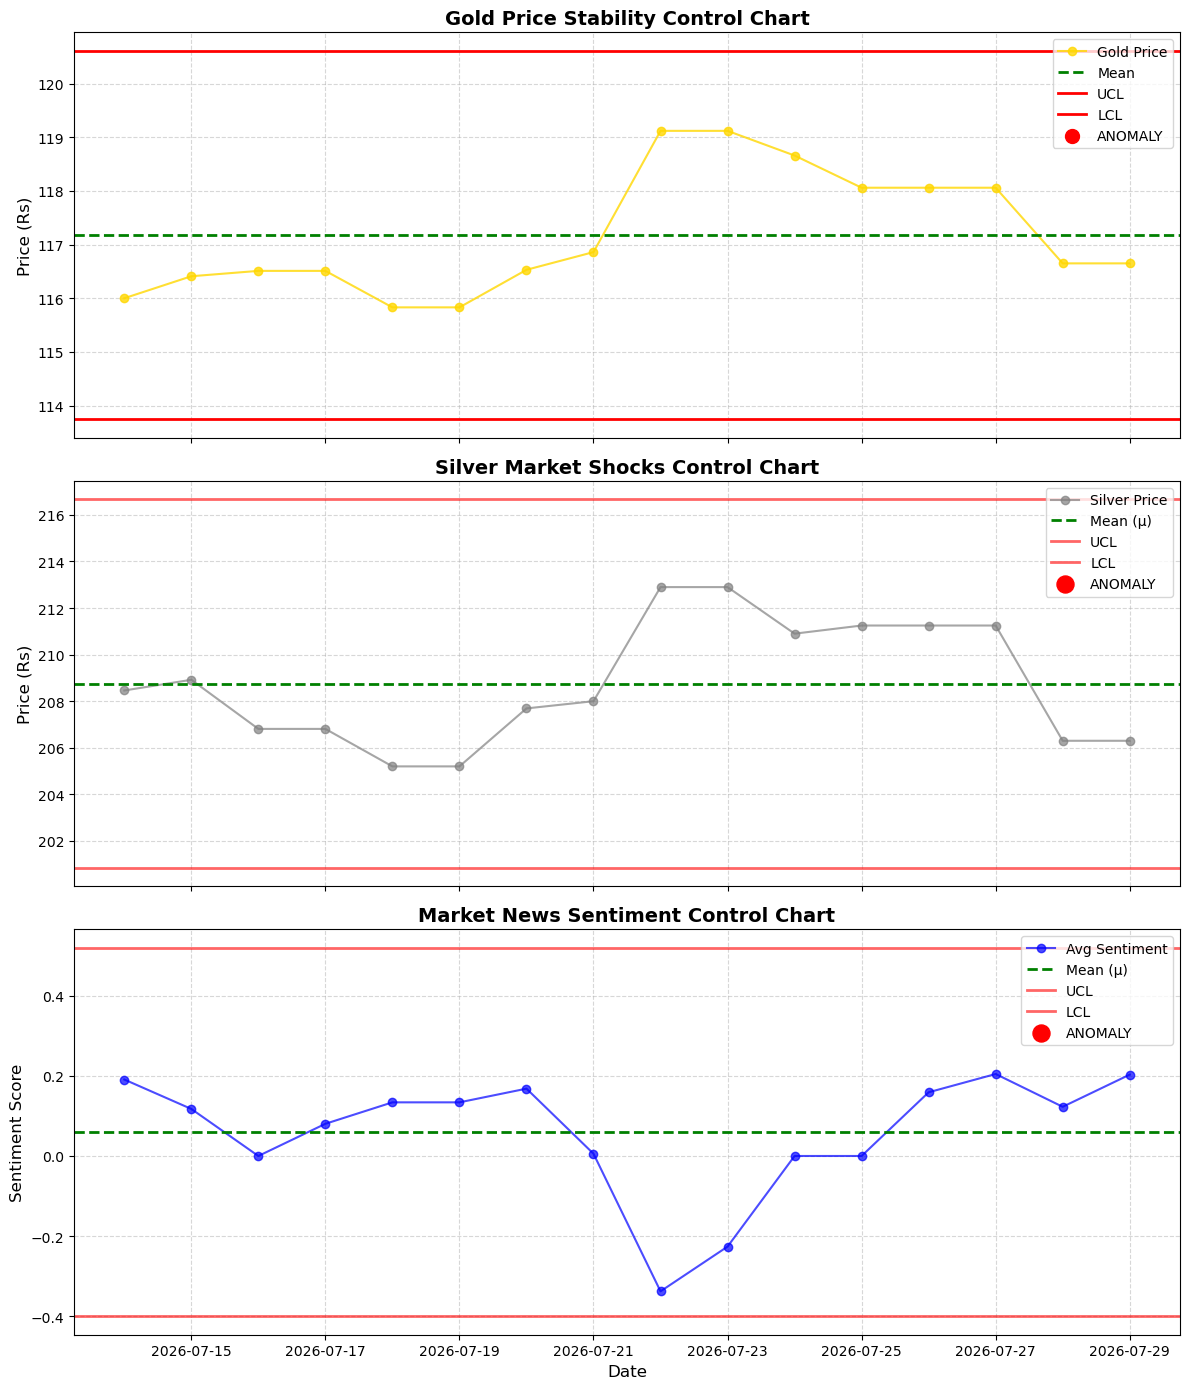
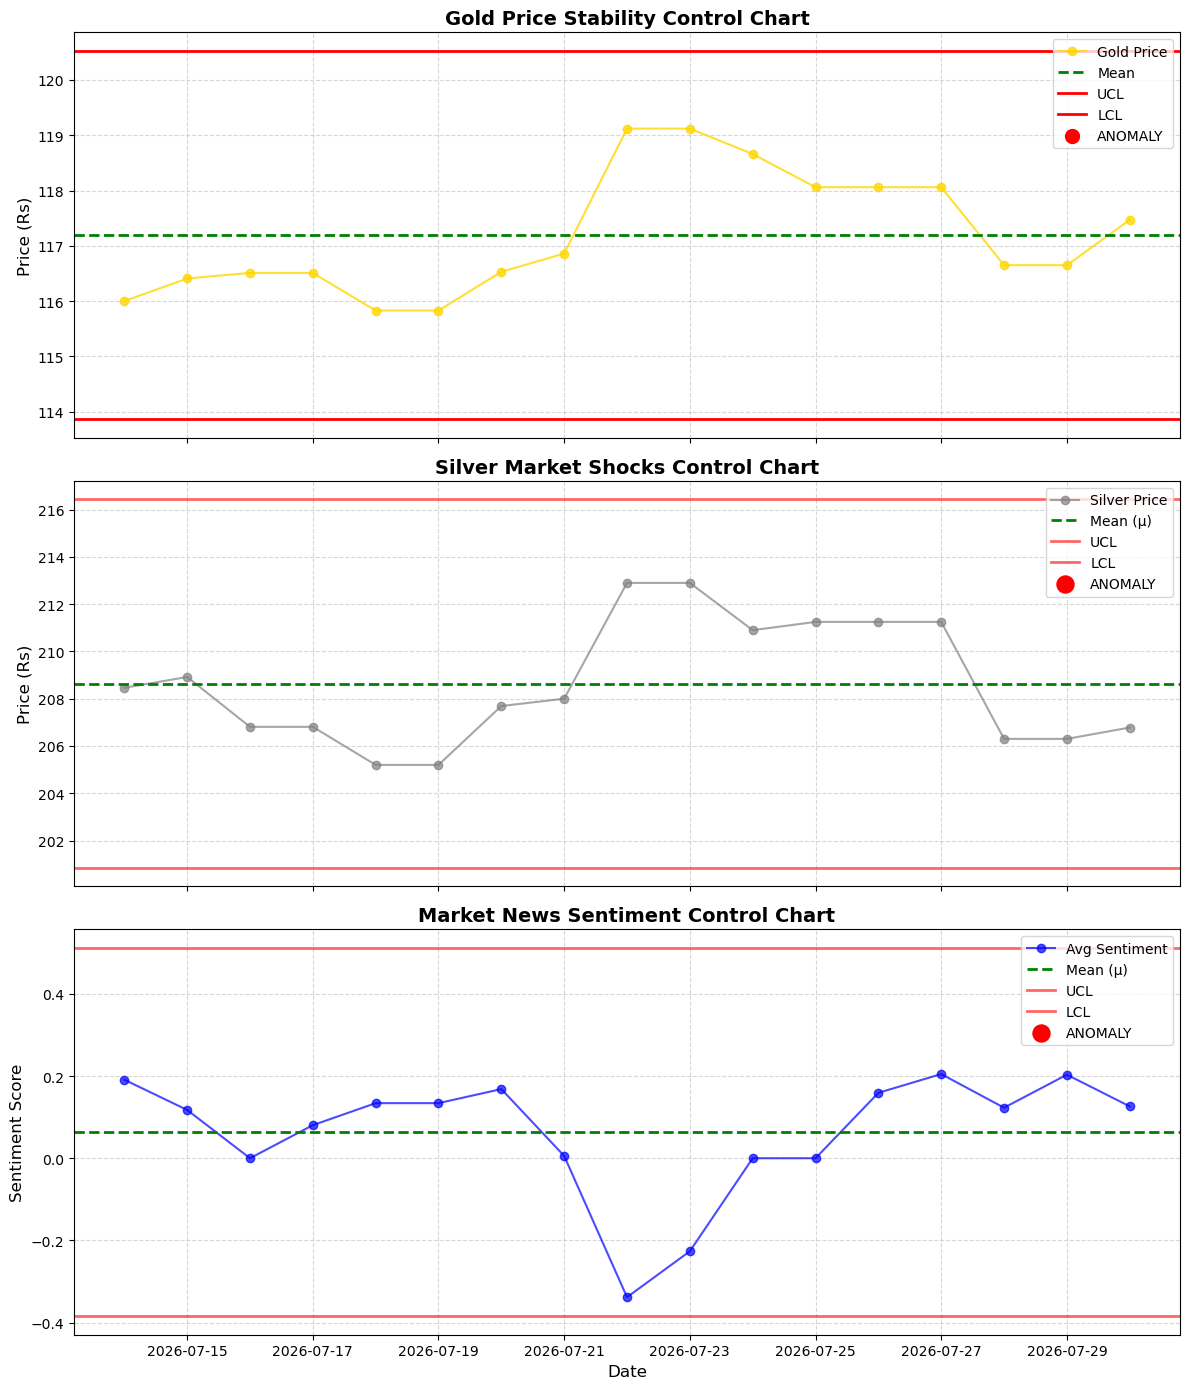
Automated Daily Market Update: 2026-07-30 19:41

diff --git a/index.html b/index.html
@@ -146,7 +146,7 @@
     <body>
         <div class="container">
             <h1>Market Sentiment Tracker (Automated)</h1>
-            <div class="timestamp">Live Data Refreshed: 29 July 2026, 09:01 AM</div>
+            <div class="timestamp">Live Data Refreshed: 30 July 2026, 07:41 PM</div>
             
             <!-- 1. Executive Summary -->
             <h3>Executive Summary</h3>
@@ -170,27 +170,27 @@
                     <tbody>
                         <tr>
                             <td><strong>Gold ETF (Rs)</strong></td>
-                            <td>116.65</td>
-                            <td>117.18</td>
-                            <td>113.74</td>
-                            <td>120.61</td>
+                            <td>117.47</td>
+                            <td>117.2</td>
+                            <td>113.86</td>
+                            <td>120.53</td>
                             <td>🟢 NORMAL</td>
                         </tr>
                         <tr>
                             <td><strong>Silver ETF (Rs)</strong></td>
-                            <td>206.3</td>
-                            <td>208.76</td>
+                            <td>206.78</td>
+                            <td>208.64</td>
                             <td>200.85</td>
-                            <td>216.67</td>
+                            <td>216.44</td>
                             <td>🟢 NORMAL</td>
                         </tr>
                         <!-- NEW: Market Sentiment Row -->
                         <tr class="sentiment-row">
                             <td><strong>Banking News Sentiment</strong></td>
-                            <td>0.2032</td>
-                            <td>0.0598</td>
-                            <td>-0.4004</td>
-                            <td>0.5199</td>
+                            <td>0.1261</td>
+                            <td>0.0637</td>
+                            <td>-0.3845</td>
+                            <td>0.5118</td>
                             <td>🟢 NORMAL</td>
                         </tr>
                     </tbody>
